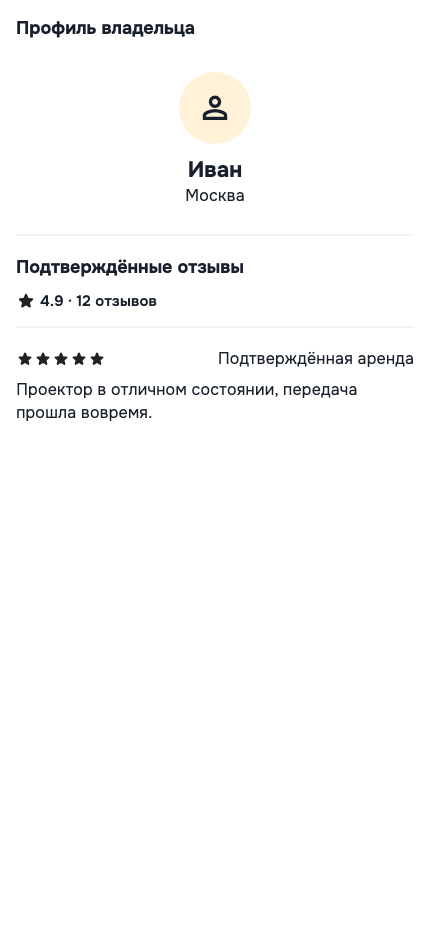
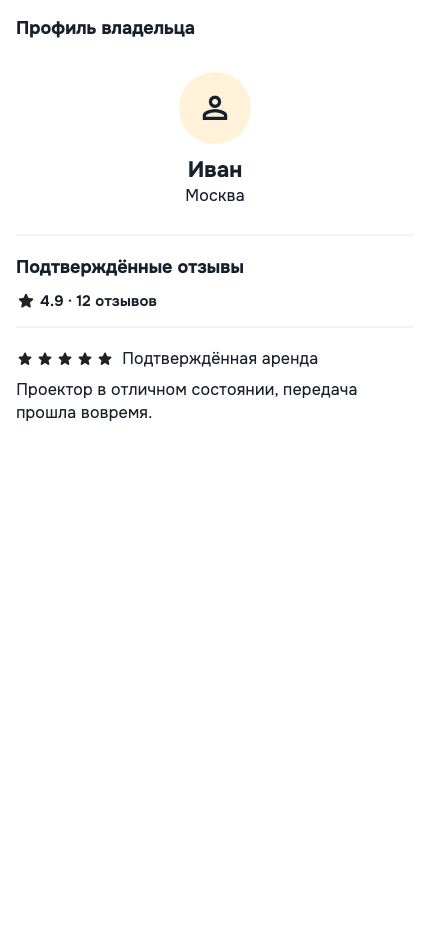
fix(mobile): wrap owner review metadata

Changed region(s): [[0.0907, 0.3734, 0.9674, 0.4045]]

diff --git a/mobile/test/features/item/item_details_screen_test.dart b/mobile/test/features/item/item_details_screen_test.dart
@@ -389,6 +389,36 @@ void main() {
     await tester.pumpAndSettle();
     expect(safety.blockCalls, 1);
   });
+
+  testWidgets('wraps owner review metadata at a large text scale', (
+    tester,
+  ) async {
+    _useSmallTextScaledSurface(tester);
+    await tester.pumpWidget(
+      ProviderScope(
+        overrides: [
+          itemDetailsProvider(item.id).overrideWith((ref) async => item),
+          publicReviewsProvider(
+            item.owner.id,
+          ).overrideWith((ref) async => largeRatedReviews),
+        ],
+        child: MaterialApp(
+          builder: (context, child) => MediaQuery(
+            data: MediaQuery.of(
+              context,
+            ).copyWith(textScaler: const TextScaler.linear(2)),
+            child: child!,
+          ),
+          home: const OwnerProfileScreen(itemId: 'item-1'),
+        ),
+      ),
+    );
+    await tester.pumpAndSettle();
+
+    expect(find.text('4.5 · 123456 отзывов'), findsOneWidget);
+    expect(find.text('Подтверждённая аренда'), findsOneWidget);
+    expect(tester.takeException(), isNull);
+  });
 }
 
 class _FakeSafetyService extends SafetyService {
@@ -490,6 +520,22 @@ final ratedReviews = PublicReviewPage(
   items: [
     PublicReview(
       id: 'review-1',
+      authorRole: 'BORROWER',
+      rating: 5,
+      text: 'Вещь передали вовремя.',
+      verifiedRental: true,
+      publishedAt: DateTime.utc(2026, 8, 9),
+      createdAt: DateTime.utc(2026, 8, 9),
+    ),
+  ],
+  nextCursor: null,
+);
+
+final largeRatedReviews = PublicReviewPage(
+  summary: const ReviewSummary(average: 4.5, count: 123456),
+  items: [
+    PublicReview(
+      id: 'review-large-1',
       authorRole: 'BORROWER',
       rating: 5,
       text: 'Вещь передали вовремя.',

diff --git a/mobile/lib/features/reviews/presentation/owner_profile_screen.dart b/mobile/lib/features/reviews/presentation/owner_profile_screen.dart
@@ -160,10 +160,12 @@ class _ReviewList extends ConsumerWidget {
     return Column(
       crossAxisAlignment: CrossAxisAlignment.stretch,
       children: [
-        Row(
+        Wrap(
+          spacing: 4,
+          runSpacing: 4,
+          crossAxisAlignment: WrapCrossAlignment.center,
           children: [
             const Icon(Icons.star_rounded, size: 20),
-            const SizedBox(width: 4),
             Text(
               '${page.summary.average!.toStringAsFixed(1)} · '
               '${page.summary.count} ${_reviewCountLabel(page.summary.count)}',
@@ -178,11 +180,18 @@ class _ReviewList extends ConsumerWidget {
             children: [
               const Divider(),
               const SizedBox(height: 12),
-              Row(
+              Wrap(
+                spacing: 8,
+                runSpacing: 8,
+                crossAxisAlignment: WrapCrossAlignment.center,
                 children: [
-                  for (var index = 0; index < review.rating; index++)
-                    const Icon(Icons.star_rounded, size: 18),
-                  const Spacer(),
+                  Wrap(
+                    spacing: 2,
+                    children: [
+                      for (var index = 0; index < review.rating; index++)
+                        const Icon(Icons.star_rounded, size: 18),
+                    ],
+                  ),
                   const Text('Подтверждённая аренда'),
                 ],
               ),
